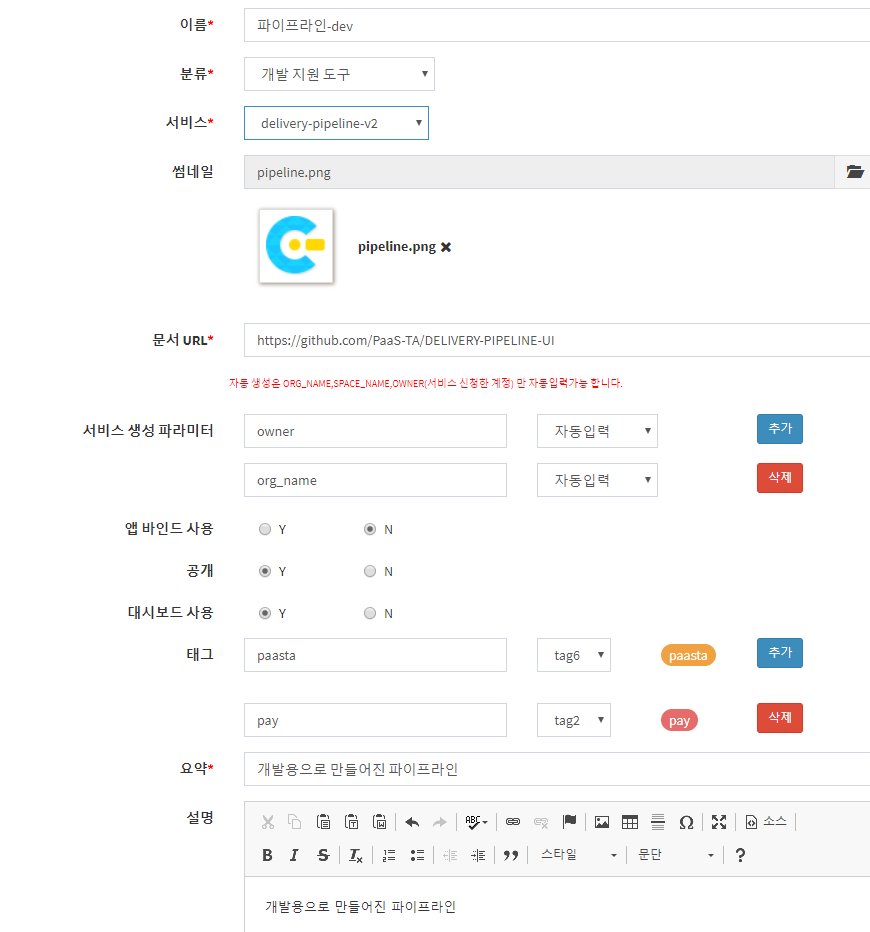
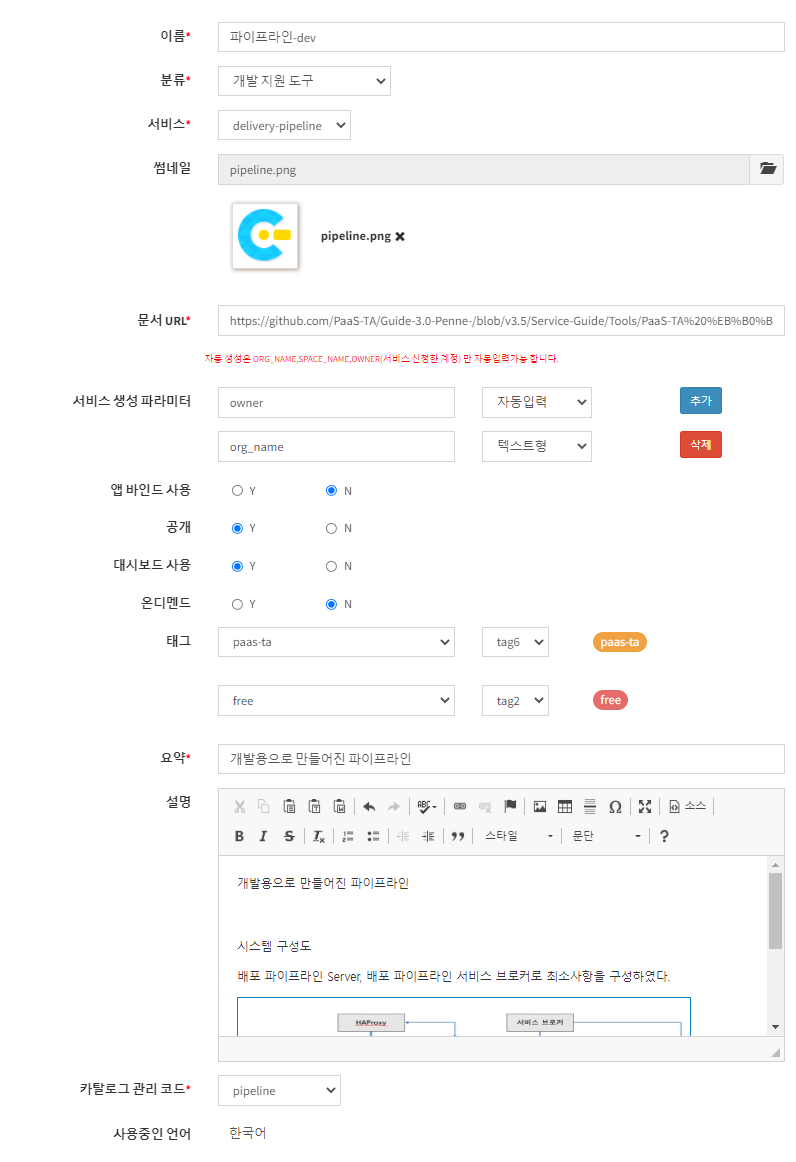
edit portal install and user guide for catalog

diff --git a/user_guide/portal/admin.md b/user_guide/portal/admin.md
@@ -109,7 +109,7 @@ PaaS-TA 포탈의 운영에 필요한 관리를 수행하기 위한 메뉴이다
 
 ### <a name="4.3"/>  4.3. 카탈로그
 
-**관리자가 카탈로그의 앱 템플릿, 앱 개발환경, 앱서비스 조회,등록,수정,삭제를 기능을 제공한다.<br>**
+**관리자가 카탈로그의 앱 템플릿, 앱 개발환경, 앱서비스 조회,등록,수정,삭제 기능을 제공한다.<br>**
 
 ![12]
 
@@ -127,6 +127,11 @@ PaaS-TA 포탈의 운영에 필요한 관리를 수행하기 위한 메뉴이다
 4. 앱 템플릿을 등록 시, ①"앱 템플릿 등록" 버튼을 클릭한다. 앱 템플릿 등록 팝업에 이름, 분류, 앱 개발환경, 서비스, 썸네일, 공개여부, 요약, 설명을 입력한다. ②"등록" 버튼을 누르면 새로운 앱 템플릿이 등록된다.
 ![16]
 
+※ 앱 템플릿 등록 및 수정 시 카탈로그 관리 코드는 선택 필수이며, 현재 사용 가능한 코드가 없는 경우 다음 내용을 참고하여 처리하도록 한다.
+- ①"코드 관리" 클릭 > ②**Group Table**의 "STARTER_TAG" 클릭 > ③**Detail Table**에 "등록"버튼을 클릭하여 카탈로그 관리 코드를 추가 후 사용한다.
+![catalog-code-starter]
+
+
 ### <a name="4.3.2"/>  4.3.2 카탈로그 관리 앱 개발환경
 1. 카탈로그 앱 개발환경 목록을 조회한다. 이름, 요약, 분류, 공개여부를 조회할 수 있다.
 검색창에서 검색유형, 검색항목, 공개여부, 검색어로 검색이 가능하다.
@@ -140,6 +145,11 @@ PaaS-TA 포탈의 운영에 필요한 관리를 수행하기 위한 메뉴이다
 
 4. 카탈로그 화면에서 앱 개발환경을 등록하기 위해 ①"앱 개발환경 등록" 버튼을 클릭한다. 앱 개발환경 등록 팝업에 이름, 분류, 앱 개발환경, 서비스, 썸네일, 공개여부, 요약, 설명을 입력한다. ②"등록" 버튼을 누르면 새로운 앱 개발환경이 등록된다.
 ![20]
+
+※ 앱 개발환경 등록 및 수정 시 카탈로그 관리 코드는 선택 필수이며, 현재 사용 가능한 코드가 없는 경우 다음 내용을 참고하여 처리하도록 한다.
+- ①"코드 관리" 클릭 > ②**Group Table**의 "BUILD_PACK_TAG" 클릭 > ③**Detail Table**에 "등록"버튼을 클릭하여 카탈로그 관리 코드를 추가 후 사용한다.
+![catalog-code-buildpack]
+
 
 ### <a name="4.3.3"/>  4.3.3 카탈로그 관리 서비스
 1. 카탈로그 서비스 목록을 조회한다. 이름, 요약, 분류, 공개여부를 조회할 수 있다. 검색창에서 검색유형, 검색항목, 공개여부, 검색어로 검색이 가능하다.<br>
@@ -155,12 +165,17 @@ PaaS-TA 포탈의 운영에 필요한 관리를 수행하기 위한 메뉴이다
 이름, 분류, 서비스, 썸네일, 파라미터, 공개여부, 요약, 설명을 입력한다. ②"등록" 버튼을 누르면 새로운 서비스가 등록된다. <br>
 ![24]
 
+※ 앱 서비스 등록 및 수정 시 카탈로그 관리 코드는 선택 필수이며, 현재 사용 가능한 코드가 없는 경우 다음 내용을 참고하여 처리하도록 한다.
+- ① "코드 관리" 클릭 > ②**Group Table**의 "SERVICE_PACK_TAG" 클릭 > ③**Detail Table**에 "등록"버튼을 클릭하여 카탈로그 관리 코드를 추가 후 사용한다.
+![catalog-code-servicepack]
+
+
 ※ **delivery-pipeline** 앱 서비스 등록 방법 예시
 1. 앱 서비스 등록 폼 화면에 앱 서비스 등록에 필요한 내용을 입력한다.
 2. 앱 서비스에 등록할 이름을 입력한다. 
 3. 분류는 "개발 지원 도구"로 지정한다.
 4. 서비스는 "delivery-pipeline-v2" 로 지정한다.
-5. 썸네일는 사용자가 등록하고자 하는 이미지를 지정하여 선택한다. 
+5. 썸네일은 사용자가 등록하고자 하는 이미지를 지정하여 선택한다. 
      > **썸네일 적용 시 'PaaS-TA 사용자'에서 카탈로그 서비스 리스트 및 서비스 등록 시 이미지를 확인 할 수 있다.**<br>
 6. 문서 URL을 넣어준다. 
      > (예) https://github.com/PaaS-TA/DELIVERY-PIPELINE-UI <br>
@@ -173,7 +188,7 @@ PaaS-TA 포탈의 운영에 필요한 관리를 수행하기 위한 메뉴이다
 9. 대시보드 사용 시 "Y" 를 필수 설정한다. 대시보드 "N" 설정시 대시보드 버튼이 비 활성화 된다.
      > **대시보드 적용 시 'PaaS-TA 사용자'에서 카탈로그 앱 서비스 "대시보드" 버튼 활성화 된다**
      > ![pipeline-app-dashboard]
-10. 그 외 공개여부, 요약, 설명을 입력한다. "저장" 버튼을 클릭하여 서비스 등록을 완료한다.
+10. 그 외 공개여부, 요약, 설명, 카탈로그 관리 코드를 입력한다. "저장" 버튼을 클릭하여 서비스 등록을 완료한다.
      > ![pipeline]
 
      
@@ -191,7 +206,7 @@ PaaS-TA 포탈의 운영에 필요한 관리를 수행하기 위한 메뉴이다
 8. 앱 바인드 사용 은 "N"으로 선택한다.
 9. 대시보드 사용 시 "Y" 를 필수 설정한다. 대시보드 "N" 설정 시 대시보드 버튼이 비 활성화 된다.
      > **대시보드 적용 시 'PaaS-TA 사용자'에서 카탈로그 앱 서비스 "대시보드" 버튼 활성화 된다**
-10. 그 외 공개여부, 요약, 설명을 입력한다. "저장" 버튼을 클릭하여 서비스 등록을 완료한다.
+10. 그 외 공개여부, 요약, 설명, 카탈로그 관리 코드를 입력한다. "저장" 버튼을 클릭하여 서비스 등록을 완료한다.
      > ![sourcecontroller]
 
 ### <a name="4.4"/>  4.4. 사용자 관리
@@ -499,5 +514,8 @@ PaaS-TA 포탈의 보안 관리를 수행하기 위한 메뉴이다.<br>
 [isolationSegments03]:./images/admin-portal/isolationSegments03.png	
 [isolationSegments04]:./images/admin-portal/isolationSegments04.png	
 [isolationSegments05]:./images/admin-portal/isolationSegments05.png	
+[catalog-code-starter]:./images/admin-portal/catalog-code-starter.png
+[catalog-code-buildpack]:./images/admin-portal/catalog-code-buildpack.png
+[catalog-code-servicepack]:./images/admin-portal/catalog-code-servicepack.png
 
 ### [Index](https://github.com/PaaS-TA/Guide/blob/master/README.md) > [AP User Guide](../README.md) > 운영자 포털
